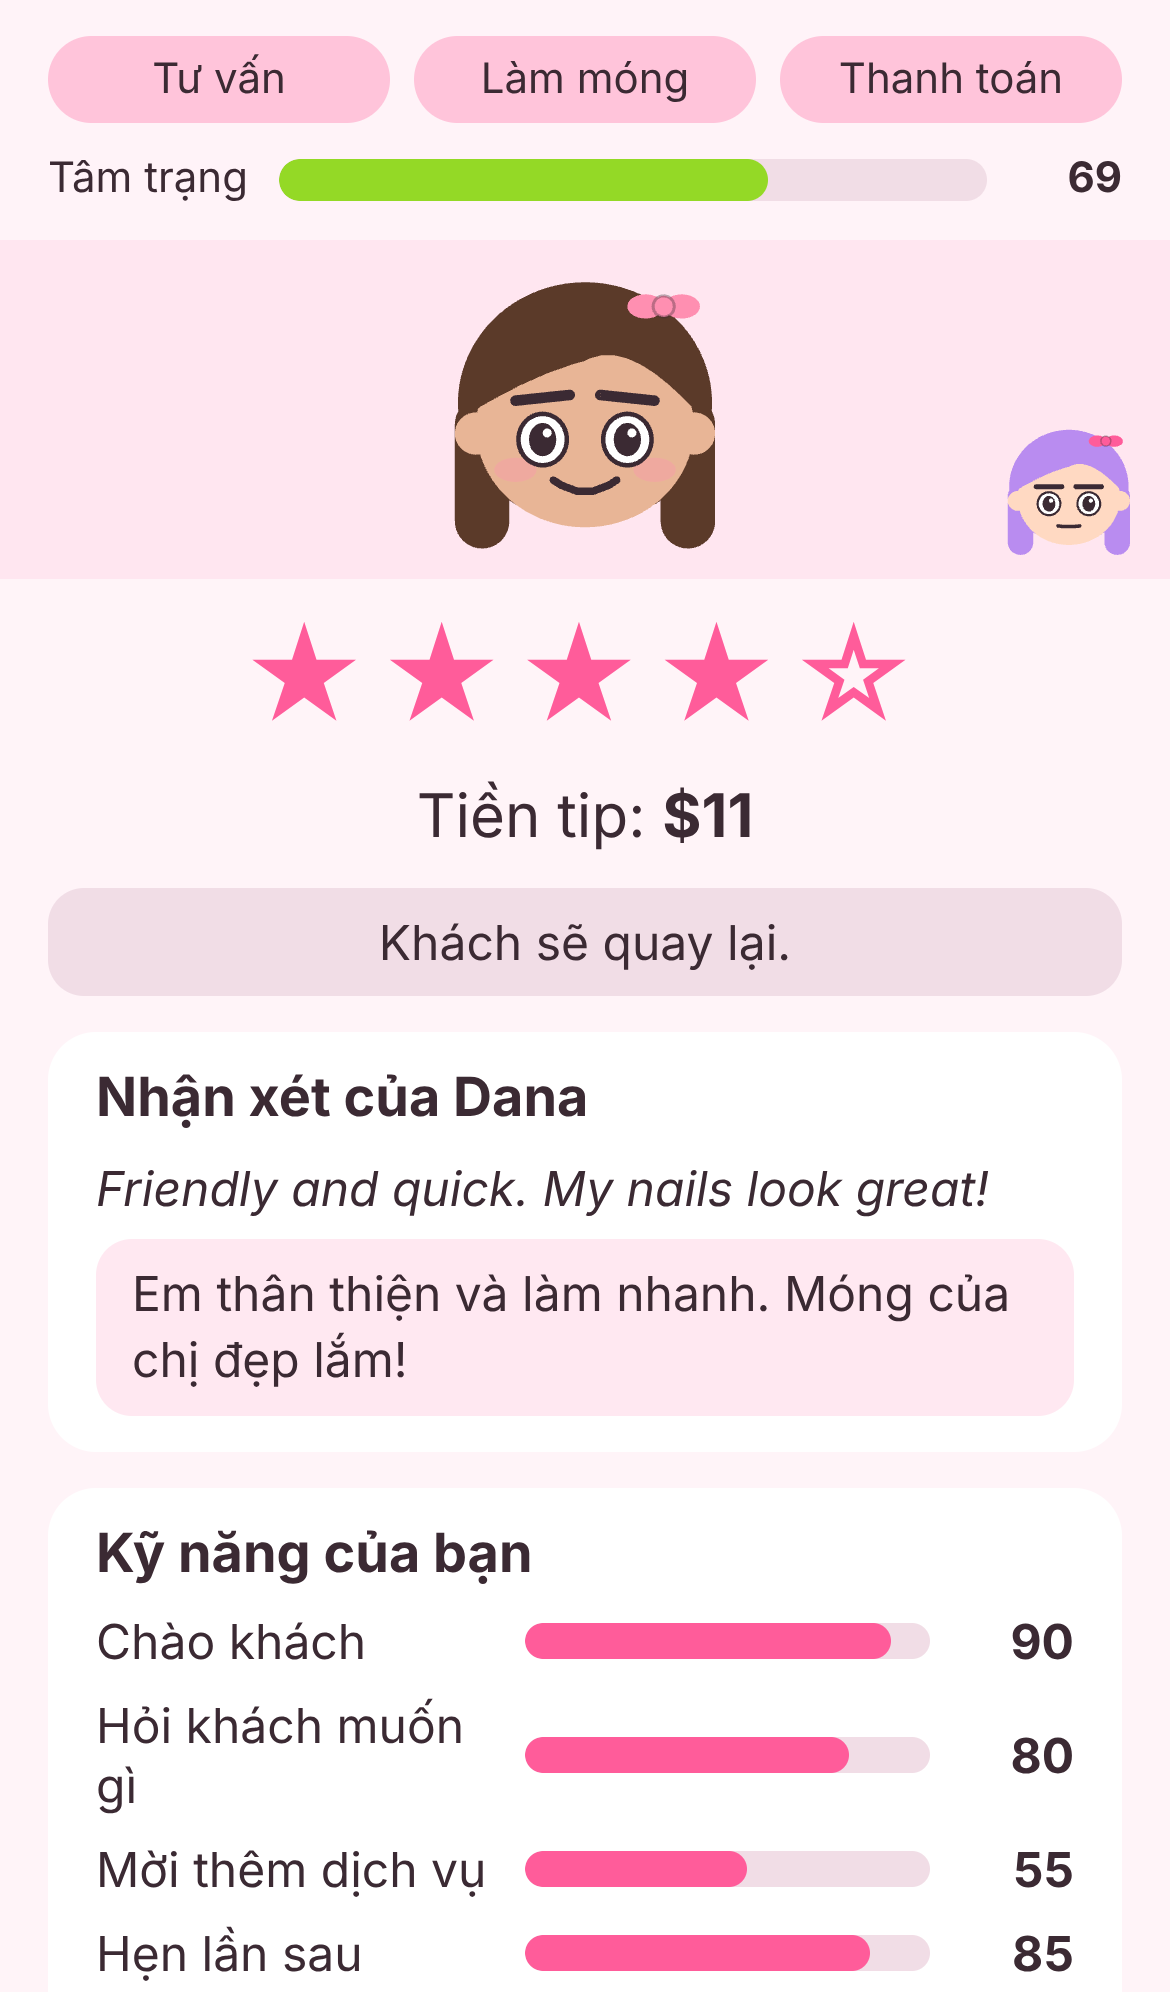
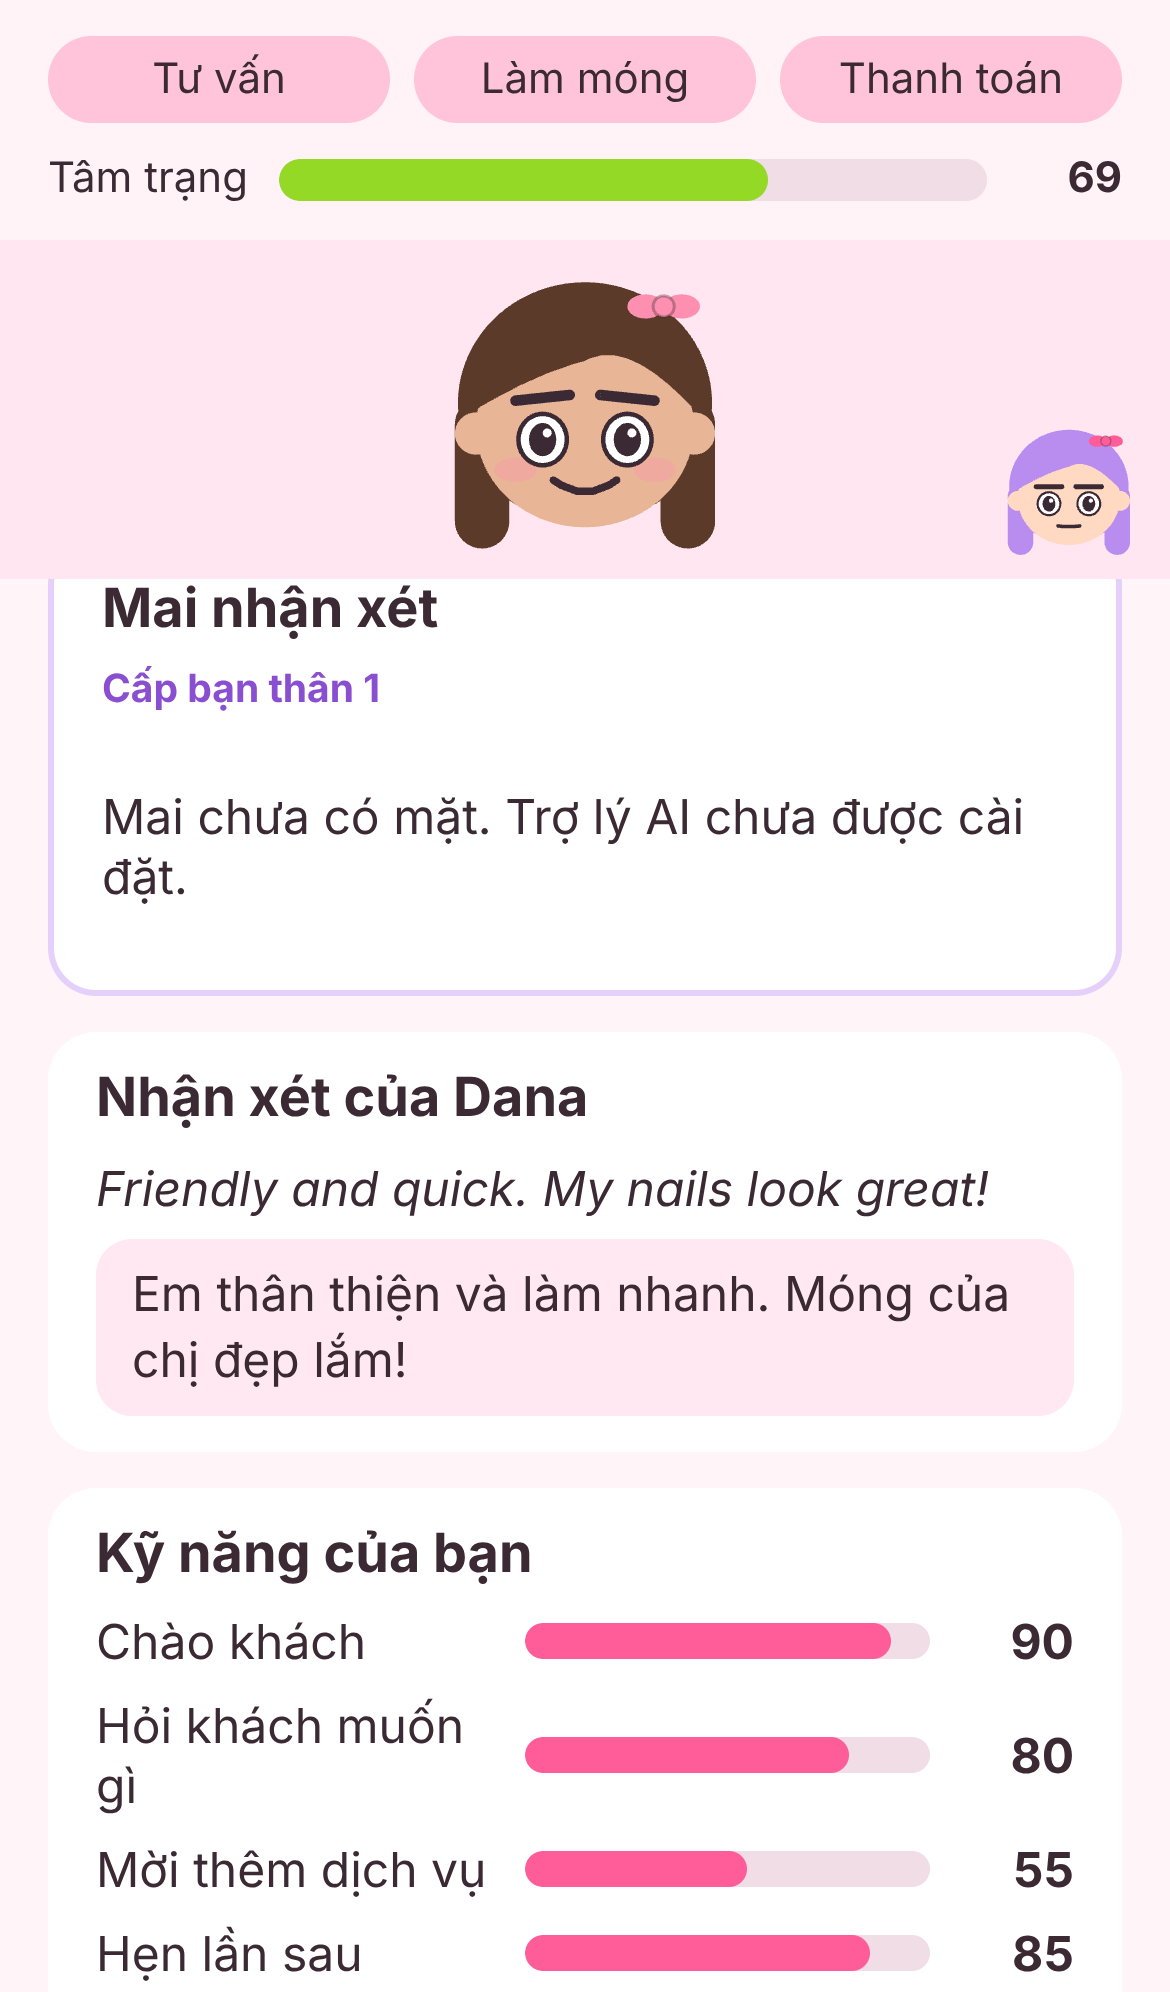
Story 003 fix: usable reply box and visible chat on 320 px phones
From the overseer's review of 2561e81:
- Narrow phones (<= 480 px): the reply box gets its own full-width row; Help
  me say it and Send share the row under it (no wrapping at 320 px).
- The Hint button sits bottom-left in the portrait area, and an open whisper
  covers the header and portraits instead of pushing the chat down. While a
  whisper is open the mood bar is hidden; it comes back on "Got it".
- Proof: the evidence script now measures, with the whisper open, the reply-box
  width (358 px at 390, 288 px at 320), that the latest client line is fully
  visible, and that the whisper never covers the chat. It passed for en/vi at
  390 and 320. Story 003 and 008 chat shots re-taken (the layout changed for both).

npm test 130/130; build OK. Next: story 011.

Claude-Session: https://claude.ai/code/session_01Fx5cxFjSfz8L37QZFocT7H

Changed region(s): [[0.0308, 0.2801, 0.9846, 0.498], [0.6769, 0.3112, 0.7692, 0.3735], [0.4615, 0.3112, 0.5231, 0.3735]]

diff --git a/src/game/ui/bestie-panel.css b/src/game/ui/bestie-panel.css
@@ -1,9 +1,11 @@
 .bestie-bubble { margin: 0; padding: 10px 14px; background: #f3e8ff; color: #3b2a33; border-radius: 16px; line-height: 1.4; text-align: left; display: flex; flex-direction: column; gap: 4px; overflow-wrap: anywhere; }
 .bestie-label { font-size: 13px; font-weight: 700; color: #8a4fd0; }
 .bestie-greeting { max-width: 340px; font-size: 15px; }
-.bestie-bar { display: flex; flex-direction: column; align-items: flex-end; gap: 6px; padding: 4px 16px 0; }
-.bestie-hint-button { min-height: 40px; padding: 0 16px; font-size: 15px; background: #f3e8ff; color: #5b2d91; }
-.bestie-whisper { align-self: stretch; max-height: 32vh; overflow-y: auto; }
+/* Laid over .chat-top (header + portraits): bottom-left Hint button; an open whisper covers the whole area and scrolls. */
+.bestie-bar { position: absolute; inset: 0; pointer-events: none; display: flex; align-items: flex-end; padding: 8px 16px; }
+.bestie-bar > * { pointer-events: auto; }
+.bestie-hint-button { min-height: 40px; padding: 0 14px; font-size: 15px; background: #f3e8ff; color: #5b2d91; box-shadow: 0 1px 4px rgba(59, 42, 51, 0.15); }
+.bestie-whisper { position: absolute; inset: 8px 12px; z-index: 1; overflow-y: auto; box-shadow: 0 2px 10px rgba(59, 42, 51, 0.2); }
 .bestie-whisper .chat-button { align-self: flex-end; min-height: 40px; }
 .bestie-text { margin: 0; }
 .bestie-level { font-size: 13px; font-weight: 700; color: #8a4fd0; }

diff --git a/src/game/ui/chat-panel.css b/src/game/ui/chat-panel.css
@@ -30,6 +30,13 @@
 @keyframes chat-blink { 0%, 80%, 100% { opacity: 0.2; } 40% { opacity: 1; } }
 .chat-error { margin: 0; padding: 12px 16px; background: #ffe1e1; display: flex; flex-direction: column; gap: 8px; font-size: 16px; }
 .chat-form { display: flex; gap: 8px; padding: 12px 16px; background: #fff4f8; }
+.chat-top { position: relative; flex: none; display: flex; flex-direction: column; }
+/* Narrow phones: the reply box gets its own full-width row, Help me say it and Send share the row under it. */
+@media (max-width: 480px) {
+  .chat-form { flex-wrap: wrap; padding: 8px 16px 12px; }
+  .chat-form .chat-input { order: -1; flex: 1 1 100%; }
+  .chat-form .chat-button { flex: 1 1 0; padding: 0 10px; white-space: nowrap; }
+}
 .chat-input { flex: 1; min-width: 0; min-height: 48px; box-sizing: border-box; padding: 0 14px; font-size: 16px; font-family: inherit; border: 2px solid #ffc4da; border-radius: 24px; }
 .chat-button { min-height: 48px; min-width: 48px; padding: 0 20px; font-size: 16px; font-weight: 700; font-family: inherit; color: #fff; background: #ff5c9a; border: 0; border-radius: 24px; }
 .chat-button:disabled, .chat-input:disabled { opacity: 0.5; }

diff --git a/src/game/ui/chat-panel.ts b/src/game/ui/chat-panel.ts
@@ -112,7 +112,11 @@ export function createChatPanel(
       })
     : null;
 
-  root.append(header, zone.element, ...(hintBar ? [hintBar.element] : []), log, errorBox, resultsBox, form, announcer);
+  // The Hint button and an open whisper sit over the header and portraits, so they never push the chat down (small phones).
+  const top = el('div', 'chat-top');
+  top.append(header, zone.element, ...(hintBar ? [hintBar.element] : []));
+
+  root.append(top, log, errorBox, resultsBox, form, announcer);
   host.appendChild(root);
 
   let latest = initial;

diff --git a/production/qa/evidence/story-003-signature-bestie/README.md b/production/qa/evidence/story-003-signature-bestie/README.md
@@ -8,7 +8,7 @@ by the browser test, so the wording here is the test's, not the model's. Real-AP
 |------|-------|
 | `*-01-title-greeting` | Mai greets the player on the title screen (memory seeded: one past appointment) |
 | `*-02-settings-hints` | Settings: the new Bestie hints switch |
-| `*-03-hint-whisper` | Hint tapped mid-appointment: Mai whispers above the chat (smiling while she does); not in the transcript |
+| `*-03-hint-whisper` | Hint tapped mid-appointment: Mai's whisper covers the header and portraits (she smiles while whispering), the chat and reply box stay usable; not in the transcript |
 | `*-04-debrief-question` | Results: Mai's debrief (praise + try next), bestie level, level-up note, and her question |
 | `*-05-debrief-reply-level-up` | The player's answer and Mai's reply |
 | `*-06-title-welcome-back` | Back on the title: "client number 3", from saved memory |
@@ -18,6 +18,7 @@ Checked in the same run (script log):
 - After the debrief and the answer, the saved memory was `{"summary":"Great greeter. Fixes problems kindly.","sessions":2,"xp":40,"lastQuestionAt":1}`: one session, XP 25 → 35 (level 2) → 40, the refreshed summary, and the question recorded.
 - Debrief asked a question (`askQuestion: true`) only because the test fixed the random roll; the rule itself (never on the first appointment, never two in a row, otherwise 40%) is unit-tested.
 - No page errors; nothing wider than its box or off-screen at 390 or 320 px.
+- Layout check with the whisper open (overseer's review of 2561e81), all four runs: reply box 358 px wide at 390 and 288 px at 320; the latest client line fully visible; the whisper never covers the chat. The Hint button and an open whisper now sit over the header and portraits instead of pushing the chat down, and on narrow phones the reply box has its own row above Help me say it and Send.
 - Fixed in this run: on 320×568 the title menu ran 15 px off-screen once the greeting was added; short screens now get a tighter menu.
 
 Still needs the real API: how Mai actually sounds (kind, short, in Vietnamese with English example lines), and that her memory notes stay useful over several sessions.
